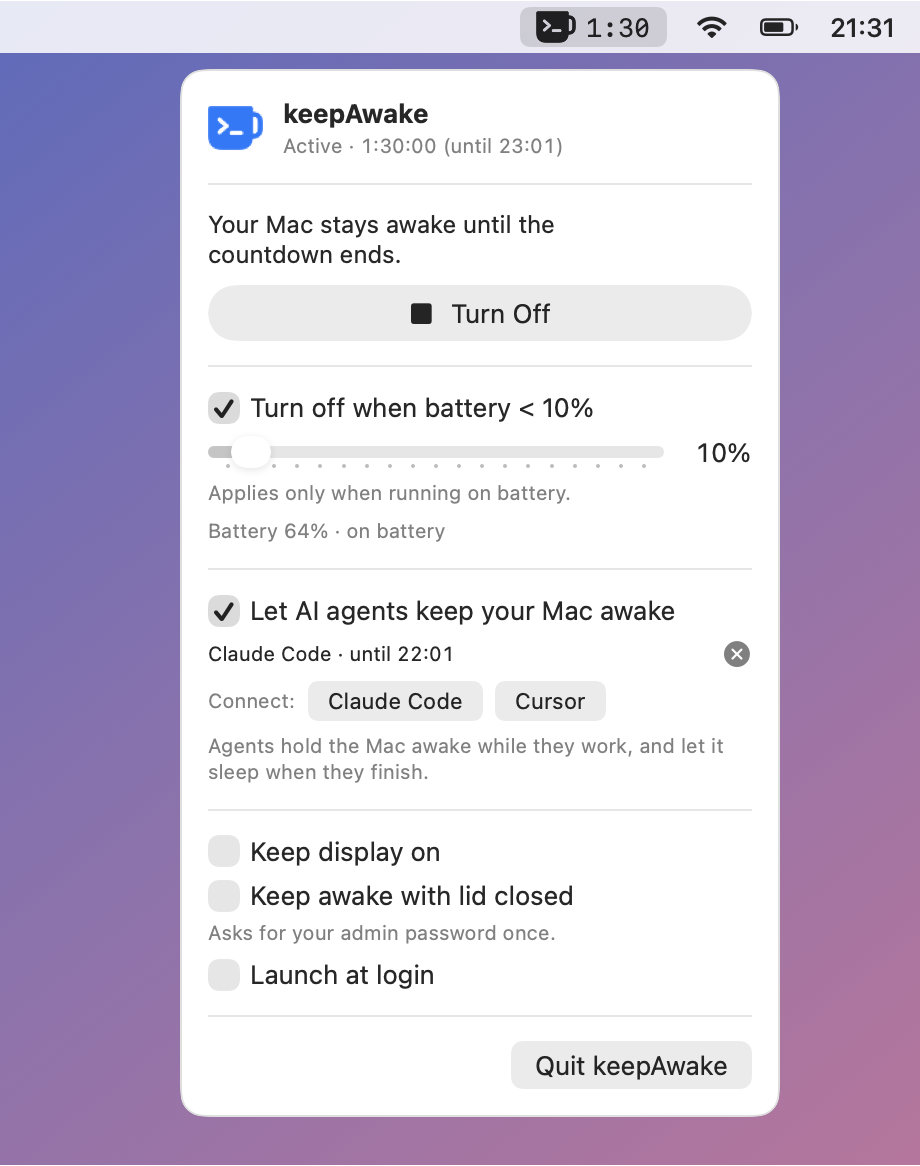
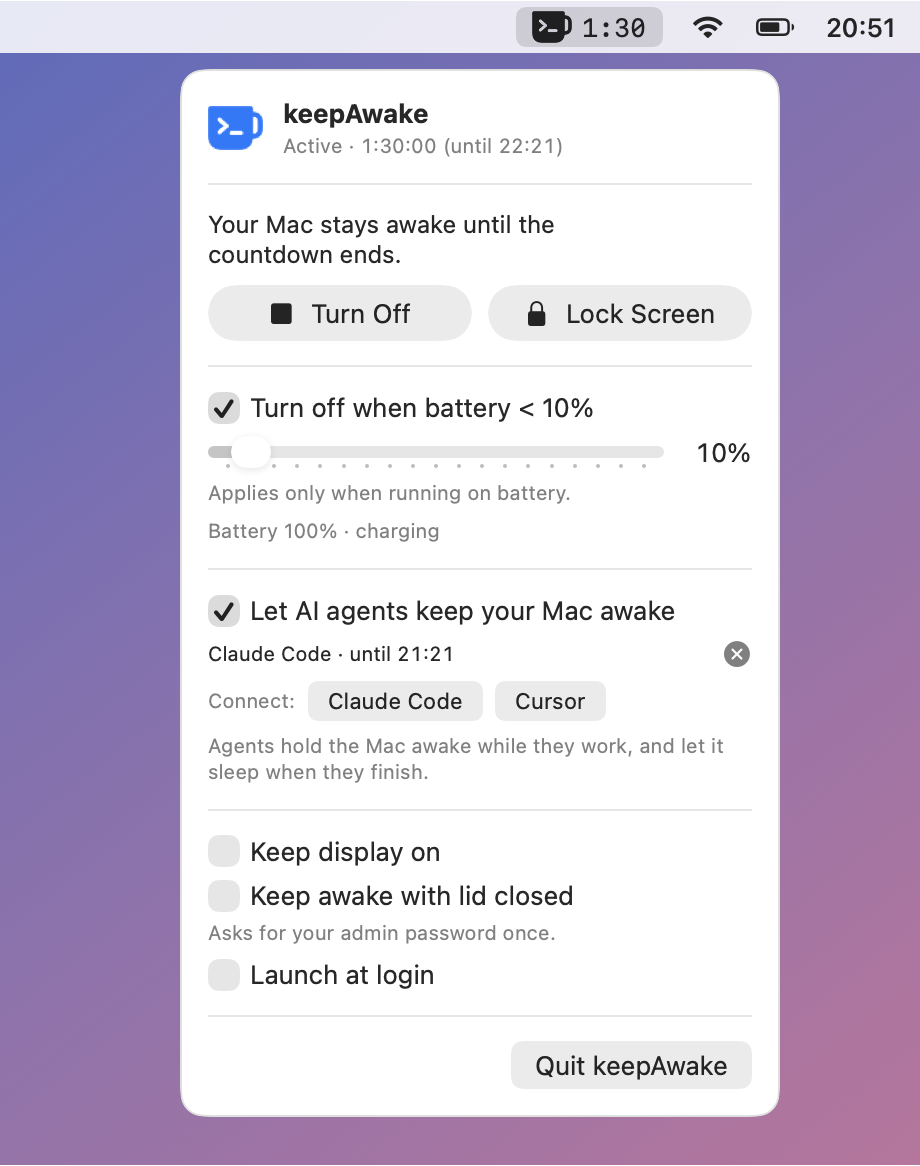
Add Lock Screen button and release 1.2.1
Lock Screen in the menu locks the Mac like Ctrl-Cmd-Q while keepAwake and
agents keep running. It calls SACLockScreenImmediate from the private
login framework, so the sandboxed App Store build hides it.

While the screen is locked, Keep display on lets the display sleep and
keeps only the system assertion; it comes back on unlock.

Also adds a release skill with the checklist of files to change for a
new version (.gitignore now keeps .claude/skills/, as on marketing), and
bumps the version to 1.2.1 (build 4).

diff --git a/docs/index.html b/docs/index.html
@@ -164,7 +164,7 @@
   <header class="hero">
     <div class="wrap">
       <img class="icon" src="icon.png" alt="keepAwake app icon" width="148" height="148">
-      <div><a class="news" href="#whats-new"><span class="tag">New in 1.2.0</span> Stays awake while AI agents work →</a></div>
+      <div><a class="news" href="#whats-new"><span class="tag">New in 1.2.1</span> Lock the screen, keep agents working →</a></div>
       <h1><span class="prompt mono">&gt;_</span> keepAwake</h1>
       <p class="lead">A tiny menu bar app that keeps your Mac from going to sleep — for a set time, forever, or until the battery runs low.</p>
       <a class="download" id="download" href="https://github.com/mikespineu/keepAwake/releases/latest/download/keepAwake.zip">
@@ -200,6 +200,14 @@
     <section aria-labelledby="whats-new">
       <h2 id="whats-new">What's new</h2>
       <div class="release">
+        <div class="release-head"><span class="tag">1.2.1</span> October 26, 2026</div>
+        <ul>
+          <li><b>Lock Screen button.</b> Lock your Mac with one click from the menu. keepAwake and your AI agents keep running behind the lock screen, so you can walk away safely.</li>
+          <li><b>The screen can go dark while locked.</b> With <em>Keep display on</em>, the display may sleep behind the lock screen while your Mac stays awake. It comes back on when you unlock.</li>
+        </ul>
+        <p class="release-links"><a href="https://github.com/mikespineu/keepAwake/blob/main/CHANGELOG.md">Full changelog</a> · <a href="https://github.com/mikespineu/keepAwake/releases">All releases</a></p>
+      </div>
+      <div class="release">
         <div class="release-head"><span class="tag">1.2.0</span> October 25, 2026</div>
         <ul>
           <li><b>AI agents can keep your Mac awake while they work.</b> Claude Code, Cursor and other AI coding tools hold keepAwake while they're busy and let the Mac sleep when they finish. The menu shows who is holding it.</li>
@@ -207,7 +215,6 @@
           <li><b>You stay in charge.</b> Turn Off ends every hold, the battery guard still applies, and a switch in the menu turns agent control off.</li>
           <li><b>For scripts too:</b> a <code>keepawake://</code> link format, a command line and an MCP server.</li>
         </ul>
-        <p class="release-links"><a href="https://github.com/mikespineu/keepAwake/blob/main/CHANGELOG.md">Full changelog</a> · <a href="https://github.com/mikespineu/keepAwake/releases">All releases</a></p>
       </div>
       <div class="release">
         <div class="release-head"><span class="tag">1.1.0</span> October 25, 2026</div>
@@ -226,7 +233,7 @@
         <div class="card"><div class="glyph">15m · 2h · 30d · ∞</div><h3>Any duration</h3><p>Presets, a custom time of up to 30 days, or Always. Chosen each time you turn it on.</p></div>
         <div class="card"><div class="glyph">&lt; 10%</div><h3>Battery guard</h3><p>Turns itself off when the battery drops below your limit, so a forgotten timer never drains your laptop.</p></div>
         <div class="card"><div class="glyph">1:29</div><h3>Countdown</h3><p>Remaining time in the menu bar, a sound when the time is up, and a notification when keepAwake stops on its own.</p></div>
-        <div class="card"><div class="glyph">▢ on · ⏻ login</div><h3>Display &amp; login</h3><p>Optionally keep the screen on too, and start keepAwake when you log in.</p></div>
+        <div class="card"><div class="glyph">▢ on · ⏻ login</div><h3>Display &amp; login</h3><p>Optionally keep the screen on too, and start keepAwake when you log in. Lock the screen from the menu and your Mac keeps working.</p></div>
         <div class="card"><div class="glyph">lid ⌄ awake</div><h3>Lid closed</h3><p>Optionally keep running with the lid shut, even without an external display. Asks for your admin password once. Don't leave it running in a bag — it can overheat.</p></div>
         <div class="card"><div class="glyph">&gt;_ agent · hold</div><h3>AI agents</h3><p>Claude Code, Cursor and other MCP tools keep your Mac awake while they work, and let it sleep when they finish. <a href="#agents">Set it up</a>.</p></div>
         <div class="card"><div class="glyph">0 bytes sent</div><h3>Private</h3><p>No Dock icon, no accounts, no tracking, no internet access. <a href="https://github.com/mikespineu/keepAwake/blob/main/PRIVACY.md">Privacy policy</a>.</p></div>

diff --git a/Sources/KeepAwake/KeepAwakeController.swift b/Sources/KeepAwake/KeepAwakeController.swift
@@ -39,6 +39,12 @@ final class KeepAwakeController {
     /// True while the manual timer runs or any agent holds the Mac awake.
     var isAwake: Bool { isActive || !holds.isEmpty }
 
+    /// Set from loginwindow's notifications, whoever locked the screen.
+    private(set) var isScreenLocked = false
+
+    /// The display may sleep behind the lock screen; the Mac itself stays awake.
+    var keepsDisplayOn: Bool { preventDisplaySleep && !isScreenLocked }
+
     /// Off: commands from agents and URLs are ignored and existing holds end.
     var agentControlEnabled: Bool {
         didSet {
@@ -65,7 +71,7 @@ final class KeepAwakeController {
     var preventDisplaySleep: Bool {
         didSet {
             defaults.set(preventDisplaySleep, forKey: Key.preventDisplaySleep)
-            if isAwake { assertion.acquire(preventDisplaySleep: preventDisplaySleep) }
+            if isAwake { assertion.acquire(preventDisplaySleep: keepsDisplayOn) }
         }
     }
 
@@ -96,6 +102,7 @@ final class KeepAwakeController {
     @ObservationIgnored private let lid: LidSleepOverride
     @ObservationIgnored private var ticker: Timer?
     @ObservationIgnored private var terminationObserver: NSObjectProtocol?
+    @ObservationIgnored private var screenLockObservers: [NSObjectProtocol] = []
     @ObservationIgnored private let defaults: UserDefaults
     @ObservationIgnored private let playTimeUpSound: () -> Void
 
@@ -141,6 +148,12 @@ final class KeepAwakeController {
             forName: NSApplication.willTerminateNotification, object: nil, queue: .main
         ) { [weak self] _ in
             MainActor.assumeIsolated { self?.prepareForQuit() }
+        }
+        let center = DistributedNotificationCenter.default()
+        screenLockObservers = [(ScreenLock.lockedNotification, true), (ScreenLock.unlockedNotification, false)].map { name, locked in
+            center.addObserver(forName: name, object: nil, queue: .main) { [weak self] _ in
+                MainActor.assumeIsolated { self?.screenLockChanged(locked: locked) }
+            }
         }
         writeStatus()
     }
@@ -192,6 +205,22 @@ final class KeepAwakeController {
         turnOff()
     }
 
+    // MARK: - Screen lock
+
+    /// False in the sandboxed build, where the button is hidden.
+    var screenLockAvailable: Bool { ScreenLock.isAvailable }
+
+    /// Lock Screen in the menu. keepAwake and agents keep running behind it.
+    func lockScreen() {
+        ScreenLock.lock()
+    }
+
+    func screenLockChanged(locked: Bool) {
+        guard locked != isScreenLocked else { return }
+        isScreenLocked = locked
+        if isAwake && preventDisplaySleep { assertion.acquire(preventDisplaySleep: keepsDisplayOn) }
+    }
+
     // MARK: - Agents
 
     func handle(_ command: AgentCommand) {
@@ -226,7 +255,7 @@ final class KeepAwakeController {
 
     /// Takes the assertion unless it is already held. False when IOKit refuses it.
     private func holdAwake() -> Bool {
-        assertion.isHeld || assertion.acquire(preventDisplaySleep: preventDisplaySleep)
+        assertion.isHeld || assertion.acquire(preventDisplaySleep: keepsDisplayOn)
     }
 
     /// Makes the assertion, lid override, ticker and status file match `isAwake`.

diff --git a/Tests/KeepAwakeTests/ScreenLockTests.swift b/Tests/KeepAwakeTests/ScreenLockTests.swift
@@ -1,0 +1,61 @@
+import Foundation
+import Testing
+@testable import KeepAwake
+
+@MainActor
+struct ScreenLockTests {
+    private let defaults = UserDefaults(suiteName: "keepAwakeScreenLockTests-\(UUID().uuidString)")!
+
+    private func makeController() -> KeepAwakeController {
+        let lid = LidSleepOverride(
+            runner: FakeRunner(),
+            fileExists: { _ in true },
+            lidClosedCausesSleep: { false },
+            helperScriptPath: "/x.sh",
+            isSandboxed: false
+        )
+        let battery = BatteryMonitor(read: { BatteryState(percent: 80, isOnBattery: false, isCharging: false) })
+        return KeepAwakeController(defaults: defaults, lid: lid, playTimeUpSound: {}, battery: battery)
+    }
+
+    @Test func lockFunctionResolvesOutsideSandbox() {
+        #expect(ScreenLock.isAvailable)
+    }
+
+    @Test func displayMaySleepWhileLocked() {
+        let controller = makeController()
+        defer { controller.turnOff() }
+        controller.preventDisplaySleep = true
+        controller.start(minutes: nil)
+        #expect(controller.keepsDisplayOn)
+
+        controller.screenLockChanged(locked: true)
+        #expect(controller.isScreenLocked)
+        #expect(!controller.keepsDisplayOn)
+        #expect(controller.isAwake)
+
+        controller.screenLockChanged(locked: false)
+        #expect(controller.keepsDisplayOn)
+        #expect(controller.isAwake)
+    }
+
+    @Test func lockWithoutDisplayOptionChangesNothing() {
+        let controller = makeController()
+        defer { controller.turnOff() }
+        controller.start(minutes: 30)
+        controller.screenLockChanged(locked: true)
+        #expect(!controller.keepsDisplayOn)
+        #expect(controller.isAwake)
+        #expect(controller.isActive)
+    }
+
+    @Test func startingWhileLockedKeepsOnlyTheSystemAwake() {
+        let controller = makeController()
+        defer { controller.turnOff() }
+        controller.preventDisplaySleep = true
+        controller.screenLockChanged(locked: true)
+        controller.handle(.hold(HoldRequest(id: "a", name: "A", minutes: 30, pid: nil)))
+        #expect(controller.isAwake)
+        #expect(!controller.keepsDisplayOn)
+    }
+}

diff --git a/Sources/KeepAwake/ScreenLock.swift b/Sources/KeepAwake/ScreenLock.swift
@@ -1,0 +1,35 @@
+import Foundation
+
+/// Locks the screen the way Ctrl-Cmd-Q does. The session keeps running, so agents
+/// and keepAwake's assertion carry on behind the lock screen.
+enum ScreenLock {
+    /// Sent by loginwindow when the screen locks and unlocks, whoever locked it.
+    static let lockedNotification = Notification.Name("com.apple.screenIsLocked")
+    static let unlockedNotification = Notification.Name("com.apple.screenIsUnlocked")
+
+    private typealias LockFunction = @convention(c) () -> Int32
+
+    /// `SACLockScreenImmediate` from the private login framework: what the Apple menu's
+    /// Lock Screen calls. It needs no permissions and locks whatever the password settings.
+    private static let lockFunction: LockFunction? = {
+        let path = "/System/Library/PrivateFrameworks/login.framework/Versions/Current/login"
+        guard let handle = dlopen(path, RTLD_LAZY), let symbol = dlsym(handle, "SACLockScreenImmediate") else {
+            return nil
+        }
+        return unsafeBitCast(symbol, to: LockFunction.self)
+    }()
+
+    /// False in the sandboxed (App Store) build, which may not use private API.
+    static var isAvailable: Bool {
+        ProcessInfo.processInfo.environment["APP_SANDBOX_CONTAINER_ID"] == nil && lockFunction != nil
+    }
+
+    /// Returns false when locking is unavailable.
+    @discardableResult
+    static func lock() -> Bool {
+        guard isAvailable, let lockFunction else { return false }
+        // The return value is undocumented; the lock notification confirms it.
+        _ = lockFunction()
+        return true
+    }
+}

diff --git a/Sources/KeepAwake/MenuView.swift b/Sources/KeepAwake/MenuView.swift
@@ -82,11 +82,22 @@ struct MenuView: View {
         VStack(alignment: .leading, spacing: 8) {
             Text(activeText)
                 .font(.callout)
-            Button {
-                controller.turnOff()
-            } label: {
-                Label("Turn Off", systemImage: "stop.fill")
-                    .frame(maxWidth: .infinity)
+            HStack(spacing: 8) {
+                Button {
+                    controller.turnOff()
+                } label: {
+                    Label("Turn Off", systemImage: "stop.fill")
+                        .frame(maxWidth: .infinity)
+                }
+                if controller.screenLockAvailable {
+                    Button {
+                        controller.lockScreen()
+                    } label: {
+                        Label("Lock Screen", systemImage: "lock.fill")
+                            .frame(maxWidth: .infinity)
+                    }
+                    .help("Lock the screen. Your Mac and its agents keep running.")
+                }
             }
             .controlSize(.large)
         }

diff --git a/.claude/skills/release/SKILL.md b/.claude/skills/release/SKILL.md
@@ -1,0 +1,71 @@
+---
+name: release
+description: Checklist for shipping a new keepAwake version — every file that must change (version numbers, Xcode project, CHANGELOG.md, website, README, screenshots), the PR, and publishing the GitHub Release with release.sh. Use this whenever the user asks to prepare, cut, bump, tag or publish a release or a new version (e.g. "release 1.3.0", "przygotuj release", "bump the version"), or to update the changelog or the website's "What's new" for a version, even if they don't say "release.sh".
+---
+
+# Releasing keepAwake
+
+A release is one PR to `main` that carries the feature, the version bump and every user-facing text, followed by `./release.sh` on `main` once that PR is merged. The website (`docs/`, GitHub Pages from `main`) and the download link (`releases/latest/download/keepAwake.zip`) update by themselves after that.
+
+## 0. Version number and branch
+
+- Look up the last release first: `gh release list --limit 3` and the top of `CHANGELOG.md`. Never skip a number (no 1.3.1 without a 1.3.0).
+- Semver: bug fixes and small additions bump the patch (1.2.0 → 1.2.1), a bigger feature bumps the minor (1.2.0 → 1.3.0). If the user names a number that skips one or doesn't fit, ask before using it.
+- Work on a branch from `origin/main` (`feature/<name>`), never on `marketing` (that branch is never merged into `main`).
+
+## 1. Files to change
+
+| File | What to change |
+|---|---|
+| `project.yml` | `MARKETING_VERSION` to the new version. `CURRENT_PROJECT_VERSION` **+1 on every release**, even a patch: the App Store rejects a repeated build number. `build.sh` and `release.sh` read both from here. |
+| `keepAwake.xcodeproj/project.pbxproj` | Run `xcodegen generate` after editing `project.yml` (never edit the pbxproj by hand; `brew install xcodegen`). Check that both configurations show the new numbers: `grep -n "MARKETING_VERSION\|CURRENT_PROJECT_VERSION" keepAwake.xcodeproj/project.pbxproj`. |
+| `CHANGELOG.md` | New section at the top, exactly `## <version> — <YYYY-MM-DD>` (em dash). Subsections `### Added`, `### Changed`, `### Fixed`, `### Uninstall note` as needed. Bold lead phrase per bullet. `release.sh` uses this section as the release notes and stops if it is missing or the heading doesn't match. |
+| `docs/index.html` | 1. Hero badge: `<span class="tag">New in <version></span> <one-line hook> →`. 2. *What's new*: a new `<div class="release">` at the **top** with `<span class="tag"><version></span> <Month D, YYYY>` and 2–4 short `<li>` bullets in plain language (not a copy of the changelog). 3. Move the `<p class="release-links">` (Full changelog · All releases) into the new block, so only the newest release has it. 4. Update the feature cards under *What it does* if the release adds something people should find there. |
+| `README.md` | *Features*, *Usage* and *How it works* for anything user-visible or any new system API. *Mac App Store* section if something is hidden in the sandboxed build. |
+| `docs/menu-*.png` | Only if the menu looks different. See step 2. |
+| `APPSTORE.md`, `PRIVACY.md` | Only if the store listing or data handling changes (e.g. new permissions, network access). |
+
+User-facing text must match the app: copy button and toggle labels verbatim from `Sources/KeepAwake/MenuView.swift`.
+
+## 2. Screenshots
+
+The images are rendered from the real SwiftUI views:
+
+```bash
+swift build -c release
+BIN="$(swift build -c release --show-bin-path)"
+cp Resources/Assets.xcassets/MenuBarIcon*.imageset/*.png "$BIN/"
+"$BIN/KeepAwake" --snapshot docs
+```
+
+This rewrites every image, and the menu bar clock changes each time. Look at the new images and keep only the ones whose menu really changed. Restore the rest with `git checkout -- <file>`. The App Store images in `docs/appstore/` show the unsandboxed menu, so leave them alone when the change only appears outside the store build. If an image's size changed, update its `width`/`height` in `docs/index.html`.
+
+## 3. Check
+
+```bash
+swift test
+./release.sh --dry-run
+```
+
+The dry run builds the universal `build/keepAwake.zip` and prints the start of the release notes. Check that the notes are the new changelog section. Open `build/keepAwake.app` only if the installed copy in `/Applications` is quit first, so two copies don't fight over the `keepawake://` scheme and the status file.
+
+## 4. PR
+
+Commit with a message that names the feature and the version, push, and open a PR to `main`. In the PR description list the version, the user-facing changes and what was verified.
+
+## 5. Publish (after the PR is merged)
+
+Publishing is public and can't be undone quietly. **Ask the user before running it**, even if they asked for the release earlier.
+
+```bash
+git switch main && git pull
+./release.sh
+```
+
+`release.sh` refuses to run with uncommitted changes, an unpushed `HEAD`, a missing changelog section or an existing tag. It creates the tag `v<version>` and the GitHub Release with `keepAwake.zip`.
+
+Afterwards:
+
+1. `gh release view v<version>`: the asset `keepAwake.zip` is attached and marked Latest.
+2. The site https://mikespineu.github.io/keepAwake/ shows the new *What's new* (Pages can take a minute or two).
+3. If the `marketing` branch should show the new feature, merge `main` into `marketing` (never the other way round).

diff --git a/README.md b/README.md
@@ -58,7 +58,8 @@ Apps you build yourself with `./build.sh` are not quarantined and open without t
 - **Pick a duration every time you turn it on:** 15 min, 30 min, 1 h, 2 h, 4 h, a custom days + hours + minutes value (up to 30 days), or **Always**.
 - **Countdown in the menu bar** next to the mug icon.
 - **Battery guard:** turns itself off when the battery drops below X% (on by default at 10%; only applies while running on battery).
-- **Keep display on** (optional) — prevents the screen from dimming/sleeping too.
+- **Keep display on** (optional) — prevents the screen from dimming/sleeping too. While the screen is locked the display may sleep; the Mac stays awake.
+- **Lock Screen** — locks the screen while keepAwake and your agents keep running behind it.
 - **Keep awake with lid closed** (optional) — the Mac keeps running with the lid shut, even without an external display. Turning it on the first time asks for your admin password to install a one-line sudoers rule that only allows `pmset -a disablesleep 1` and `pmset -a disablesleep 0`.
 - **Launch at login** (optional).
 - **AI agents can keep the Mac awake while they work:** Claude Code, Cursor and any MCP client, connected with one click. See [Use with AI agents](#use-with-ai-agents).
@@ -122,7 +123,7 @@ Notifications and *Launch at login* don't work in this mode because the binary i
 1. Click the cup icon in the menu bar.
 2. Choose how long to stay awake — a preset, a custom time (then **Start**), or **Always**.
 3. Optionally set the battery threshold with the slider.
-4. Click **Turn Off** to stop early.
+4. Click **Turn Off** to stop early, or **Lock Screen** to lock the Mac and leave it working.
 
 Verify that the sleep assertion is active:
 
@@ -187,6 +188,7 @@ URLs work from anywhere that opens links, for example `open -g "keepawake://hold
 | Battery level | IOKit `IOPSCopyPowerSourcesInfo` + power-source change notifications (no polling) |
 | Settings | `UserDefaults` |
 | Launch at login | `SMAppService.mainApp` |
+| Lock Screen | `SACLockScreenImmediate` from the private `login.framework` (what the Apple menu's Lock Screen calls), loaded with `dlopen`; lock state from the `com.apple.screenIsLocked` / `com.apple.screenIsUnlocked` distributed notifications |
 | Lid closed | `sudo -n pmset -a disablesleep 1` / `0`, allowed by `/etc/sudoers.d/keepawake` (installed via `osascript … with administrator privileges`, checked with `visudo`) |
 | Agent control | `keepawake://` URLs handled by `NSApplicationDelegate.application(_:open:)`; the app writes its state to `~/Library/Application Support/keepAwake/status.json`, which the CLI, hooks and MCP server read back |
 | MCP server | The same binary run as `KeepAwake mcp`: JSON-RPC over stdio, no dependencies |
@@ -240,6 +242,8 @@ sudo rm -f /etc/sudoers.d/keepawake
 
 1. Bump `MARKETING_VERSION` (and `CURRENT_PROJECT_VERSION`) in `project.yml`.
 2. Add a `## <version> — <date>` section to [CHANGELOG.md](CHANGELOG.md) and update *What's new* in `docs/index.html`. The release notes start with that changelog section; the script stops if it is missing.
+
+The full checklist, including the Xcode project and screenshots, is in the `release` skill: [.claude/skills/release/SKILL.md](.claude/skills/release/SKILL.md).
 3. Commit and push.
 4. Run the release script:
 
@@ -272,7 +276,7 @@ swift scripts/generate-icon.swift
 
 The project is prepared for the Mac App Store: App Sandbox, privacy manifest, icon, and an Xcode project (`keepAwake.xcodeproj`, generated from `project.yml` with [XcodeGen](https://github.com/yonaskolb/XcodeGen)). See [APPSTORE.md](APPSTORE.md) for the submission steps and listing metadata, and [PRIVACY.md](PRIVACY.md) for the privacy policy.
 
-Builds from `build.sh` (and the release zip) are signed without the App Sandbox, because the lid-closed mode needs `sudo` and `osascript`. In the sandboxed store build that toggle is hidden.
+Builds from `build.sh` (and the release zip) are signed without the App Sandbox, because the lid-closed mode needs `sudo` and `osascript`. In the sandboxed store build that toggle is hidden, and so is Lock Screen, which uses a private API.
 
 ## License
 

diff --git a/CHANGELOG.md b/CHANGELOG.md
@@ -2,6 +2,16 @@
 
 All notable changes to keepAwake. Download any version from [GitHub Releases](https://github.com/mikespineu/keepAwake/releases).
 
+## 1.2.1 — 2026-10-26
+
+### Added
+
+- **Lock Screen** button next to Turn Off. It locks the screen like Ctrl-Cmd-Q while keepAwake and your agents keep running behind the lock screen. Not in the Mac App Store build.
+
+### Changed
+
+- With *Keep display on*, the display may now sleep while the screen is locked, however it was locked. The Mac itself stays awake, and the display setting comes back when you unlock.
+
 ## 1.2.0 — 2026-10-25
 
 ### Added
